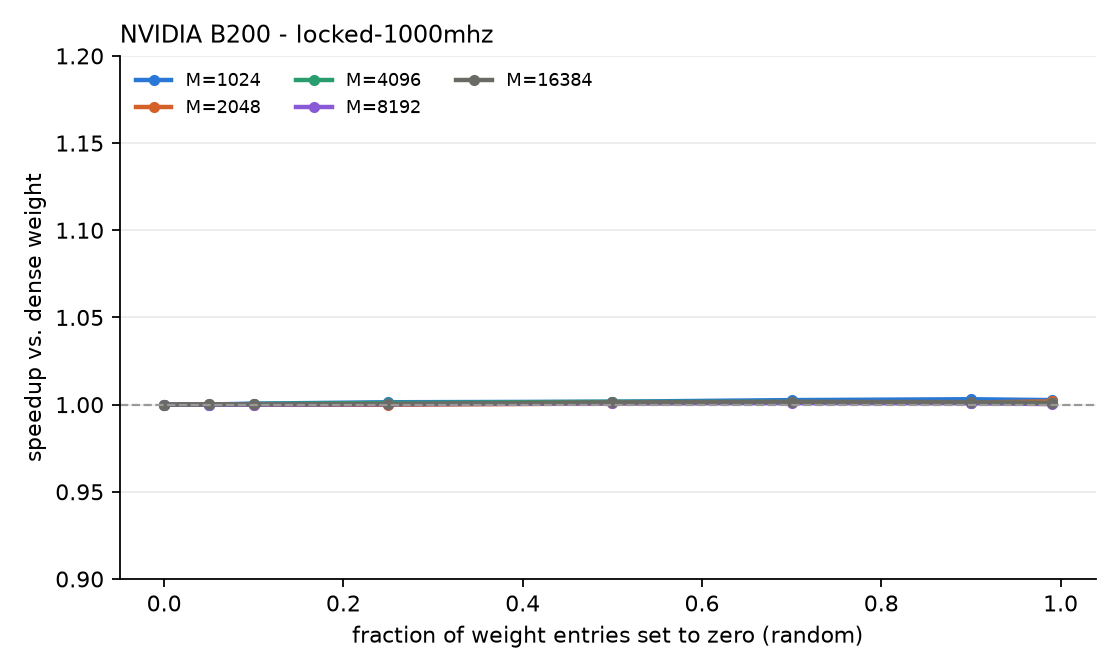
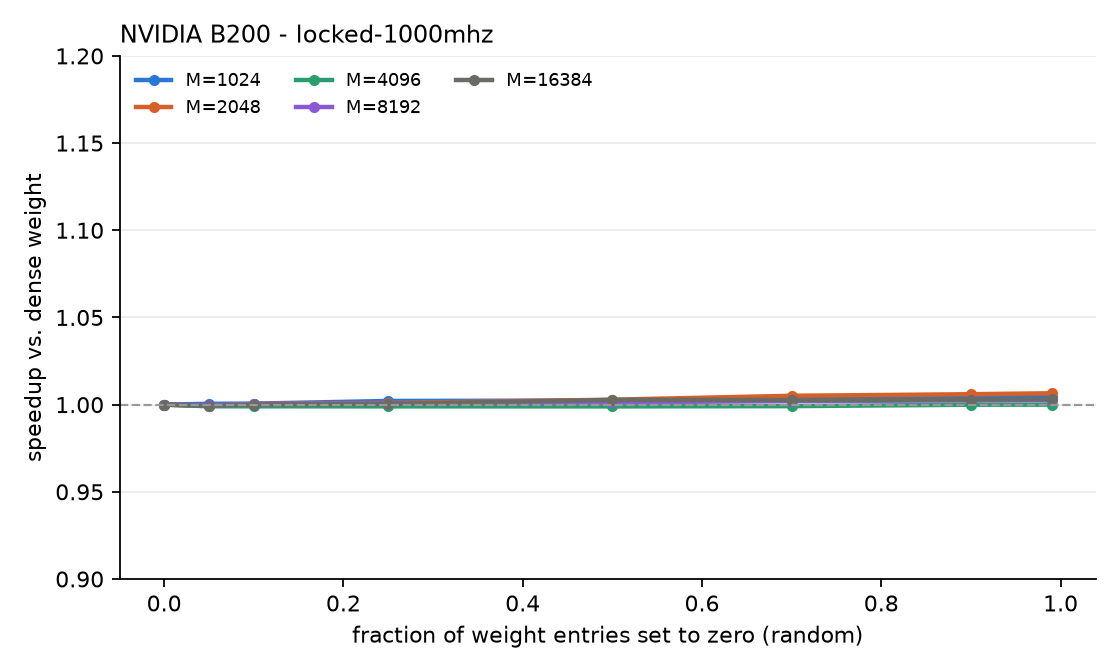
Post: clock sweep across locked frequencies, drop 2:4

Changed region(s): [[0.1562, 0.5625, 0.9688, 0.625]]

diff --git a/_posts/2026-10-02-sparse-matmul-speedup.md b/_posts/2026-10-02-sparse-matmul-speedup.md
@@ -15,103 +15,250 @@ author:
 
 Hypothesis: if one operand of a matmul is sparse, even a **dense** kernel that knows nothing about sparsity should run faster. Nothing is skipped, but zeros flip fewer bits, so the chip draws less power. GPUs like the H100 and B200 run matmuls at their power cap, so lower power can mean higher clocks, which means faster matmuls.
 
-We tested this on an H100 and a B200. The hypothesis holds, and so does its explanation: **with the SM clock locked, the speedup disappears completely.**
+We tested this on an H100 and a B200. The hypothesis holds, and so does its explanation: **if the SM clock is locked to a value the GPU can sustain under its power limit, the speedup disappears completely. Lock it higher than that and it comes back.**
 
 _The code and raw results are available [here](https://github.com/GeometricAGI/blog/tree/main/sparse-matmul-speedup)._
 
 ### Setup
 
 - `x @ w` in bf16 with `w` of shape 8192x8192 and `x` of shape `M x 8192`, run with plain `torch.matmul` (cuBLAS). No sparse kernels are involved; the zeros are stored densely.
-- We zero a fraction of `w` (5%, 10%, 25%, 50%, 70%, 90%, 99%), either at random or by magnitude, and also test a 2:4 pattern (zero the 2 smallest of every 4 consecutive entries along the contraction dimension). 2:4 is a fixed pattern, so it is always exactly 50% sparse; it is the only pattern NVIDIA's sparse tensor cores accelerate.
+- We set a fraction of `w` to zero (5%, 10%, 25%, 50%, 70%, 90%, 99%), chosen uniformly at random. Pruning by magnitude instead gives similar numbers and is in the repo. Everything below is "speedup over the dense weight", i.e. dense time divided by time with zeros, so values above 1.000 mean faster than dense.
 - Matmuls are captured in a CUDA graph and timed over replays. Every config is timed in 5 interleaved rounds (alternating order) and we report the median, so drift hits every config equally.
-- `M` is swept from 1024 to 16384. In an exploratory run on the H100 with smaller `M` (1, 16 and 128 rows) the matmul is memory-bound and sparsity made no difference (within 0.5%), so we start the published sweep at 1024.
-- We run each GPU twice: with free-running clocks, and with the SM clock locked (`nvidia-smi -lgc`) to a value the GPU can hold without hitting its power cap (1200 MHz on the H100, 1000 MHz on the B200).
+- `M` is swept over 1024, 2048, 4096, 8192 and 16384. In an exploratory run on the H100 with smaller `M` (1, 16 and 128 rows) the matmul is memory-bound and sparsity made no difference (within 0.5%), so we start the published sweep at 1024.
+- Each GPU is run with free-running clocks and with the SM clock locked (`nvidia-smi -lgc`) at six values: 1000, 1200, 1400, 1600, 1800 MHz and the GPU's maximum (1980 MHz on the H100, 1965 MHz on the B200).
 
 ### Free-running clocks: dense matmuls do get faster
 
-Speedup over the dense weight, random zeroing, `M=4096`:
+Speedup with 99% of the weights zeroed, free-running clocks:
 
-| | 5% | 10% | 25% | 50% | 70% | 90% | 99% | 2:4 |
-|---|---|---|---|---|---|---|---|---|
-| H100 | 1.014 | 1.032 | 1.015 | 1.051 | 1.069 | 1.098 | 1.145 | 1.095 |
-| B200 | 0.990 | 0.997 | 1.004 | 1.013 | 1.115 | 1.062 | 1.054 | 1.113 |
+| | M=1024 | M=2048 | M=4096 | M=8192 | M=16384 |
+|---|---|---|---|---|---|
+| H100 | 1.184 | 1.113 | 1.104 | 1.077 | 1.129 |
+| B200 | 1.088 | 1.078 | 1.100 | 1.080 | 1.049 |
 
 ![H100, free-running clocks](/assets/sparse-matmul-speedup/h100-unlocked.png)
 
 ![B200, free-running clocks](/assets/sparse-matmul-speedup/b200-unlocked.png)
 
-- Speedup generally grows with the amount of zeros, up to about **1.14x on the H100 and 1.13x on the B200** at extreme sparsity.
-- The 2:4 pattern at 50% zeros reaches up to 1.13x (B200, `M=16384`) and 1.10x (H100, `M=4096`), but only 1.00x on the H100 at `M=16384`. It is still the same dense kernel; the speedup is not the sparse tensor-core path.
-- At realistic sparsity (5-25%) the effect is mostly inside the run-to-run noise. At `M=16384` on the H100, 5-50% sparsity was actually 3-4% **slower** than dense.
-- The curves are noisy. Magnitude-pruning at 5% was faster than at 10% on both GPUs, which we can't explain with the clock data alone, so treat differences of a few percent between neighbouring points as noise.
+- Speedup generally grows with the amount of zeros, up to about **1.18x on the H100 and 1.12x on the B200**.
+- At realistic sparsity (5-25%) the effect is mostly inside the run-to-run noise. On the H100 at `M=16384`, 5-50% zeros was 3-6% **slower** than dense.
+- The curves are noisy, so treat differences of a few percent between neighbouring points as noise.
 
-### Locked clocks: the speedup is gone
+### Locked clocks: the speedup depends on the lock
 
-Same sweep with the SM clock pinned (H100 at 1200 MHz, B200 at 1000 MHz), speedup over dense for random zeroing:
+Speedup with 99% zeros for each locked SM clock (the first row is the free-running result for reference):
 
-| | M | 5% | 25% | 50% | 99% | 2:4 |
-|---|---|---|---|---|---|---|
-| H100 | 1024 | 1.000 | 1.000 | 1.001 | 1.001 | 1.000 |
-| H100 | 16384 | 1.000 | 1.000 | 1.000 | 1.001 | 1.000 |
-| B200 | 1024 | 1.000 | 1.001 | 1.002 | 1.003 | 1.001 |
-| B200 | 16384 | 1.000 | 1.000 | 1.001 | 1.001 | 1.001 |
+**H100**
 
-![H100, locked clock](/assets/sparse-matmul-speedup/h100-locked-1200mhz.png)
+| SM clock | M=1024 | M=2048 | M=4096 | M=8192 | M=16384 |
+|---|---|---|---|---|---|
+| free-running | 1.184 | 1.113 | 1.104 | 1.077 | 1.129 |
+| 1000 MHz | 1.000 | 1.000 | 1.000 | 1.000 | 1.000 |
+| 1200 MHz | 1.000 | 1.001 | 1.000 | 1.000 | 1.000 |
+| 1400 MHz | 1.001 | 1.016 | 1.076 | 1.022 | 1.048 |
+| 1600 MHz | 1.165 | 1.147 | 1.116 | 1.100 | 1.157 |
+| 1800 MHz | 1.157 | 1.124 | 1.112 | 1.108 | 1.159 |
+| 1980 MHz | 1.163 | 1.145 | 1.113 | 1.108 | 1.142 |
 
-![B200, locked clock](/assets/sparse-matmul-speedup/b200-locked-1000mhz.png)
+**B200**
 
-Across every `M` and every sparsity level (including 99% and 2:4), the largest difference to dense is **0.4%**. Even the odd points from the unlocked runs flatten out, so they were clock-driven noise too.
+| SM clock | M=1024 | M=2048 | M=4096 | M=8192 | M=16384 |
+|---|---|---|---|---|---|
+| free-running | 1.088 | 1.078 | 1.100 | 1.080 | 1.049 |
+| 1000 MHz | 1.004 | 1.007 | 1.000 | 1.003 | 1.003 |
+| 1200 MHz | 1.002 | 1.002 | 1.026 | 1.021 | 1.029 |
+| 1400 MHz | 1.063 | 1.068 | 1.067 | 1.064 | 1.064 |
+| 1600 MHz | 1.068 | 1.090 | 1.069 | 1.050 | 1.078 |
+| 1800 MHz | 1.044 | 1.064 | 1.082 | 1.068 | 1.073 |
+| 1965 MHz | 1.081 | 1.071 | 1.068 | 1.071 | 1.076 |
+
+![H100, speedup vs. locked clock](/assets/sparse-matmul-speedup/h100-clock_sweep.png)
+
+![B200, speedup vs. locked clock](/assets/sparse-matmul-speedup/b200-clock_sweep.png)
+
+- **Low locks: no effect.** At 1000 and 1200 MHz the H100 is within 0.1% of dense for every `M` and every sparsity level. The B200 is within 0.7% at 1000 MHz. The GPU holds the requested clock, so the work takes the same time whatever is in the weights.
+- **High locks: the speedup comes back.** On the H100 it is partly back at 1400 MHz (1.00-1.08x) and fully back, at its free-running size, from 1600 MHz up. On the B200 it is back from 1400 MHz. Above that the lock stops being the binding constraint: dense runs reach only 1260-1400 MHz on the H100 and 1155-1400 MHz on the B200 no matter how high we set the lock, because the power limit decides the clock. Sparser weights draw less power, so they sustain a somewhat higher clock.
+- **B200 at 1200 MHz is in between.** Speedup is 1.00-1.03x for the larger shapes, so this lock sits right at the edge of what it can sustain.
+- A clock lock is therefore only a control if it is set below the clock the GPU would sustain at its power limit for that workload.
 
 ### Full results
 
-Speedup over the dense weight (dense time / time with zeros) for random zeroing, for every `M`. Values above 1.000 are faster than dense. The 2:4 column is a fixed pattern (2 zeros in every group of 4 consecutive entries), so it is always exactly 50% sparse and there is no other sparsity level to report for it.
+The tables below give the speedup for every `M` and sparsity level for each clock setting.
 
-**H100, free-running clocks**
+<details><summary>H100, free-running</summary>
 
-| M | 5% | 10% | 25% | 50% | 70% | 90% | 99% | 2:4 (50%) |
-|---|---|---|---|---|---|---|---|---|
-| 1024 | 1.016 | 1.013 | 1.047 | 1.055 | 1.097 | 1.132 | 1.120 | 1.068 |
-| 2048 | 1.014 | 1.012 | 1.039 | 1.041 | 1.065 | 1.092 | 1.098 | 1.092 |
-| 4096 | 1.014 | 1.032 | 1.015 | 1.051 | 1.069 | 1.098 | 1.145 | 1.095 |
-| 8192 | 1.013 | 1.017 | 1.034 | 1.050 | 1.084 | 1.098 | 1.127 | 1.100 |
-| 16384 | 0.970 | 0.957 | 0.970 | 0.963 | 1.017 | 1.093 | 1.140 | 1.003 |
+| M | 5% | 10% | 25% | 50% | 70% | 90% | 99% |
+|---|---|---|---|---|---|---|---|
+| 1024 | 1.028 | 1.032 | 1.040 | 1.083 | 1.126 | 1.171 | 1.184 |
+| 2048 | 0.991 | 0.988 | 0.993 | 1.001 | 1.032 | 1.102 | 1.113 |
+| 4096 | 0.998 | 0.987 | 0.962 | 0.992 | 1.013 | 1.066 | 1.104 |
+| 8192 | 0.995 | 0.986 | 1.005 | 1.011 | 1.045 | 1.091 | 1.077 |
+| 16384 | 0.965 | 0.944 | 0.944 | 0.967 | 1.021 | 1.089 | 1.129 |
 
-**H100, SM clock locked at 1200 MHz**
+</details>
 
-| M | 5% | 10% | 25% | 50% | 70% | 90% | 99% | 2:4 (50%) |
-|---|---|---|---|---|---|---|---|---|
-| 1024 | 1.000 | 0.998 | 1.000 | 1.001 | 1.000 | 1.001 | 1.001 | 1.000 |
-| 2048 | 1.001 | 0.999 | 1.002 | 1.000 | 1.003 | 1.004 | 1.004 | 1.003 |
-| 4096 | 0.998 | 1.001 | 1.001 | 1.000 | 1.001 | 1.001 | 1.002 | 1.001 |
-| 8192 | 1.001 | 1.001 | 1.001 | 1.002 | 1.001 | 1.002 | 1.002 | 1.002 |
-| 16384 | 1.000 | 1.001 | 1.000 | 1.000 | 1.000 | 1.000 | 1.001 | 1.000 |
+<details><summary>H100, 1000 MHz</summary>
 
-**B200, free-running clocks**
+| M | 5% | 10% | 25% | 50% | 70% | 90% | 99% |
+|---|---|---|---|---|---|---|---|
+| 1024 | 1.000 | 1.000 | 1.000 | 1.000 | 1.000 | 1.000 | 1.000 |
+| 2048 | 1.000 | 1.000 | 1.000 | 1.000 | 1.000 | 1.000 | 1.000 |
+| 4096 | 1.000 | 1.000 | 1.000 | 1.000 | 1.000 | 1.000 | 1.000 |
+| 8192 | 1.000 | 1.000 | 1.000 | 1.000 | 1.000 | 1.000 | 1.000 |
+| 16384 | 1.000 | 1.000 | 0.999 | 0.999 | 1.000 | 1.000 | 1.000 |
 
-| M | 5% | 10% | 25% | 50% | 70% | 90% | 99% | 2:4 (50%) |
-|---|---|---|---|---|---|---|---|---|
-| 1024 | 1.000 | 1.003 | 1.019 | 1.024 | 1.031 | 1.054 | 1.077 | 1.078 |
-| 2048 | 1.000 | 1.000 | 1.012 | 1.020 | 1.026 | 1.043 | 1.051 | 1.084 |
-| 4096 | 0.990 | 0.997 | 1.004 | 1.013 | 1.115 | 1.062 | 1.054 | 1.113 |
-| 8192 | 0.999 | 1.010 | 1.017 | 1.038 | 1.067 | 1.080 | 1.081 | 1.114 |
-| 16384 | 1.000 | 1.014 | 1.030 | 1.066 | 1.073 | 1.104 | 1.099 | 1.125 |
+</details>
 
-**B200, SM clock locked at 1000 MHz**
+<details><summary>H100, 1200 MHz</summary>
 
-| M | 5% | 10% | 25% | 50% | 70% | 90% | 99% | 2:4 (50%) |
-|---|---|---|---|---|---|---|---|---|
-| 1024 | 1.000 | 1.001 | 1.001 | 1.002 | 1.003 | 1.003 | 1.003 | 1.001 |
-| 2048 | 1.000 | 1.000 | 1.000 | 1.001 | 1.001 | 1.001 | 1.002 | 1.001 |
-| 4096 | 1.000 | 1.000 | 1.001 | 1.002 | 1.002 | 1.001 | 1.001 | 1.001 |
-| 8192 | 1.000 | 1.000 | 1.000 | 1.001 | 1.001 | 1.001 | 1.000 | 1.001 |
-| 16384 | 1.000 | 1.000 | 1.000 | 1.001 | 1.002 | 1.001 | 1.001 | 1.001 |
+| M | 5% | 10% | 25% | 50% | 70% | 90% | 99% |
+|---|---|---|---|---|---|---|---|
+| 1024 | 1.000 | 0.999 | 1.000 | 1.000 | 1.000 | 1.000 | 1.000 |
+| 2048 | 1.000 | 1.000 | 1.000 | 1.000 | 1.000 | 1.000 | 1.001 |
+| 4096 | 1.000 | 1.000 | 1.000 | 1.000 | 1.000 | 1.000 | 1.000 |
+| 8192 | 1.000 | 1.000 | 1.000 | 1.000 | 1.000 | 1.000 | 1.000 |
+| 16384 | 1.000 | 1.000 | 1.000 | 1.000 | 1.000 | 1.000 | 1.000 |
+
+</details>
+
+<details><summary>H100, 1400 MHz</summary>
+
+| M | 5% | 10% | 25% | 50% | 70% | 90% | 99% |
+|---|---|---|---|---|---|---|---|
+| 1024 | 1.000 | 1.001 | 0.997 | 1.000 | 1.001 | 1.001 | 1.001 |
+| 2048 | 1.016 | 1.012 | 1.011 | 1.016 | 1.016 | 1.016 | 1.016 |
+| 4096 | 1.049 | 1.075 | 1.075 | 1.075 | 1.076 | 1.076 | 1.076 |
+| 8192 | 1.021 | 1.018 | 1.016 | 1.010 | 1.022 | 1.022 | 1.022 |
+| 16384 | 1.011 | 1.016 | 1.030 | 0.998 | 1.034 | 1.048 | 1.048 |
+
+</details>
+
+<details><summary>H100, 1600 MHz</summary>
+
+| M | 5% | 10% | 25% | 50% | 70% | 90% | 99% |
+|---|---|---|---|---|---|---|---|
+| 1024 | 0.992 | 1.009 | 1.012 | 1.058 | 1.103 | 1.131 | 1.165 |
+| 2048 | 1.006 | 0.991 | 0.997 | 1.035 | 1.061 | 1.120 | 1.147 |
+| 4096 | 0.981 | 0.996 | 0.990 | 1.000 | 1.026 | 1.089 | 1.116 |
+| 8192 | 0.998 | 0.968 | 0.987 | 1.010 | 1.050 | 1.106 | 1.100 |
+| 16384 | 0.967 | 0.954 | 0.953 | 0.971 | 1.033 | 1.101 | 1.157 |
+
+</details>
+
+<details><summary>H100, 1800 MHz</summary>
+
+| M | 5% | 10% | 25% | 50% | 70% | 90% | 99% |
+|---|---|---|---|---|---|---|---|
+| 1024 | 1.012 | 1.013 | 1.003 | 1.030 | 1.092 | 1.120 | 1.157 |
+| 2048 | 0.991 | 0.964 | 0.986 | 1.003 | 1.041 | 1.108 | 1.124 |
+| 4096 | 0.988 | 0.969 | 0.959 | 1.002 | 1.028 | 1.086 | 1.112 |
+| 8192 | 0.990 | 0.972 | 1.005 | 1.016 | 1.060 | 1.108 | 1.108 |
+| 16384 | 0.974 | 0.953 | 0.955 | 0.972 | 1.027 | 1.113 | 1.159 |
+
+</details>
+
+<details><summary>H100, 1980 MHz</summary>
+
+| M | 5% | 10% | 25% | 50% | 70% | 90% | 99% |
+|---|---|---|---|---|---|---|---|
+| 1024 | 1.001 | 1.017 | 1.020 | 1.046 | 1.101 | 1.135 | 1.163 |
+| 2048 | 0.996 | 0.994 | 0.994 | 1.020 | 1.049 | 1.118 | 1.145 |
+| 4096 | 0.988 | 0.968 | 0.981 | 1.006 | 1.045 | 1.101 | 1.113 |
+| 8192 | 0.975 | 0.987 | 0.999 | 1.006 | 1.046 | 1.107 | 1.108 |
+| 16384 | 0.955 | 0.948 | 0.948 | 0.947 | 1.030 | 1.101 | 1.142 |
+
+</details>
+
+<details><summary>B200, free-running</summary>
+
+| M | 5% | 10% | 25% | 50% | 70% | 90% | 99% |
+|---|---|---|---|---|---|---|---|
+| 1024 | 1.000 | 0.998 | 1.014 | 1.045 | 1.068 | 1.070 | 1.088 |
+| 2048 | 1.001 | 0.998 | 1.004 | 1.013 | 1.036 | 1.052 | 1.078 |
+| 4096 | 1.000 | 0.998 | 1.011 | 1.015 | 1.043 | 1.065 | 1.100 |
+| 8192 | 0.992 | 1.014 | 1.015 | 1.030 | 1.051 | 1.054 | 1.080 |
+| 16384 | 1.003 | 1.001 | 1.007 | 1.019 | 1.059 | 1.062 | 1.049 |
+
+</details>
+
+<details><summary>B200, 1000 MHz</summary>
+
+| M | 5% | 10% | 25% | 50% | 70% | 90% | 99% |
+|---|---|---|---|---|---|---|---|
+| 1024 | 1.000 | 1.001 | 1.002 | 1.002 | 1.003 | 1.004 | 1.004 |
+| 2048 | 0.999 | 1.000 | 1.001 | 1.003 | 1.005 | 1.006 | 1.007 |
+| 4096 | 0.999 | 0.999 | 0.999 | 0.999 | 0.999 | 1.000 | 1.000 |
+| 8192 | 1.000 | 1.000 | 1.001 | 1.001 | 1.002 | 1.002 | 1.003 |
+| 16384 | 0.999 | 1.000 | 1.000 | 1.003 | 1.003 | 1.003 | 1.003 |
+
+</details>
+
+<details><summary>B200, 1200 MHz</summary>
+
+| M | 5% | 10% | 25% | 50% | 70% | 90% | 99% |
+|---|---|---|---|---|---|---|---|
+| 1024 | 1.000 | 1.000 | 1.001 | 1.001 | 1.002 | 1.002 | 1.002 |
+| 2048 | 1.000 | 1.000 | 1.000 | 1.001 | 1.001 | 1.002 | 1.002 |
+| 4096 | 1.019 | 1.026 | 1.026 | 1.026 | 1.026 | 1.026 | 1.026 |
+| 8192 | 1.020 | 1.021 | 1.020 | 1.021 | 1.021 | 1.021 | 1.021 |
+| 16384 | 1.021 | 1.013 | 1.024 | 1.029 | 1.029 | 1.029 | 1.029 |
+
+</details>
+
+<details><summary>B200, 1400 MHz</summary>
+
+| M | 5% | 10% | 25% | 50% | 70% | 90% | 99% |
+|---|---|---|---|---|---|---|---|
+| 1024 | 1.001 | 1.015 | 1.040 | 1.047 | 1.062 | 1.057 | 1.063 |
+| 2048 | 1.007 | 1.004 | 1.009 | 1.042 | 1.047 | 1.059 | 1.068 |
+| 4096 | 1.017 | 1.019 | 1.020 | 1.036 | 1.088 | 1.072 | 1.067 |
+| 8192 | 1.012 | 0.992 | 1.034 | 1.027 | 1.051 | 1.059 | 1.064 |
+| 16384 | 1.001 | 0.989 | 1.008 | 1.023 | 1.043 | 1.057 | 1.064 |
+
+</details>
+
+<details><summary>B200, 1600 MHz</summary>
+
+| M | 5% | 10% | 25% | 50% | 70% | 90% | 99% |
+|---|---|---|---|---|---|---|---|
+| 1024 | 1.000 | 1.001 | 1.020 | 1.049 | 1.074 | 1.056 | 1.068 |
+| 2048 | 0.993 | 0.977 | 0.999 | 1.014 | 1.040 | 1.052 | 1.090 |
+| 4096 | 0.998 | 1.005 | 1.021 | 1.035 | 1.060 | 1.058 | 1.069 |
+| 8192 | 0.991 | 1.006 | 1.010 | 1.022 | 1.039 | 1.048 | 1.050 |
+| 16384 | 0.999 | 1.004 | 1.004 | 1.018 | 1.040 | 1.057 | 1.078 |
+
+</details>
+
+<details><summary>B200, 1800 MHz</summary>
+
+| M | 5% | 10% | 25% | 50% | 70% | 90% | 99% |
+|---|---|---|---|---|---|---|---|
+| 1024 | 1.000 | 1.005 | 1.036 | 1.051 | 1.067 | 1.077 | 1.044 |
+| 2048 | 0.996 | 0.992 | 1.008 | 1.021 | 1.043 | 1.044 | 1.064 |
+| 4096 | 1.003 | 0.992 | 1.018 | 1.027 | 1.068 | 1.065 | 1.082 |
+| 8192 | 1.016 | 1.000 | 1.028 | 1.043 | 1.057 | 1.072 | 1.068 |
+| 16384 | 0.996 | 0.999 | 1.011 | 1.020 | 1.039 | 1.058 | 1.073 |
+
+</details>
+
+<details><summary>B200, 1965 MHz</summary>
+
+| M | 5% | 10% | 25% | 50% | 70% | 90% | 99% |
+|---|---|---|---|---|---|---|---|
+| 1024 | 0.994 | 1.000 | 1.003 | 1.010 | 1.047 | 1.050 | 1.081 |
+| 2048 | 0.991 | 0.997 | 1.003 | 1.020 | 1.039 | 1.043 | 1.071 |
+| 4096 | 0.991 | 1.001 | 1.010 | 1.021 | 1.038 | 1.058 | 1.068 |
+| 8192 | 1.007 | 0.994 | 1.022 | 1.027 | 1.054 | 1.060 | 1.071 |
+| 16384 | 0.999 | 1.001 | 1.012 | 1.009 | 1.040 | 1.058 | 1.076 |
+
+</details>
 
 Magnitude-pruning results and raw timings, SM clocks and power samples are in [the repo](https://github.com/GeometricAGI/blog/tree/main/sparse-matmul-speedup/results).
 
 ### What this means
 
-- **It is a power effect, not a compute effect.** The kernel does the same work and takes the same time at a fixed clock. Unlocked, the dense runs sat at the power cap (about 700 W on the H100 and 990 W on the B200) with SM clocks dropping to 1150-1400 MHz; sparse weights let the GPU hold a somewhat higher clock.
-- **Benchmark with care.** If you compare kernels or models and one of them runs on weights with many zeros (pruned, quantized, or just initialized differently), part of the gap can be the power cap rather than the kernel. Lock clocks, or at least log SM clock and power next to your timings.
+- **It is a power effect, not a compute effect.** The kernel does the same work. It only runs faster when the GPU is power-limited and the zeros let it hold a higher clock; at a clock the GPU can sustain, the time is identical.
+- **Benchmark with care.** If you compare kernels or models and one of them runs on weights with many zeros (pruned, quantized, or just initialized differently), part of the gap can be the power cap rather than the kernel. Lock clocks to a value below the power-limited clock, or at least log SM clock and power next to your timings.
 - **Don't count on it.** The effect is small, only shows up for compute-bound shapes at power-limited clocks, and is smaller than the noise at the sparsity levels that are common in practice.
 
-Limitations: one weight shape (8192x8192), bf16 only, one GPU of each type, and power readings from NVML are sampled, not integrated. A natural follow-up is to compare against a genuine sparse kernel path such as cuSPARSELt for the 2:4 case, and to repeat this for fp8.
+Limitations: one weight shape (8192x8192), bf16 only, one GPU of each type, and power readings from NVML are sampled, not integrated. A natural follow-up is to compare against a genuine sparse kernel path such as cuSPARSELt, and to repeat this for fp8.
